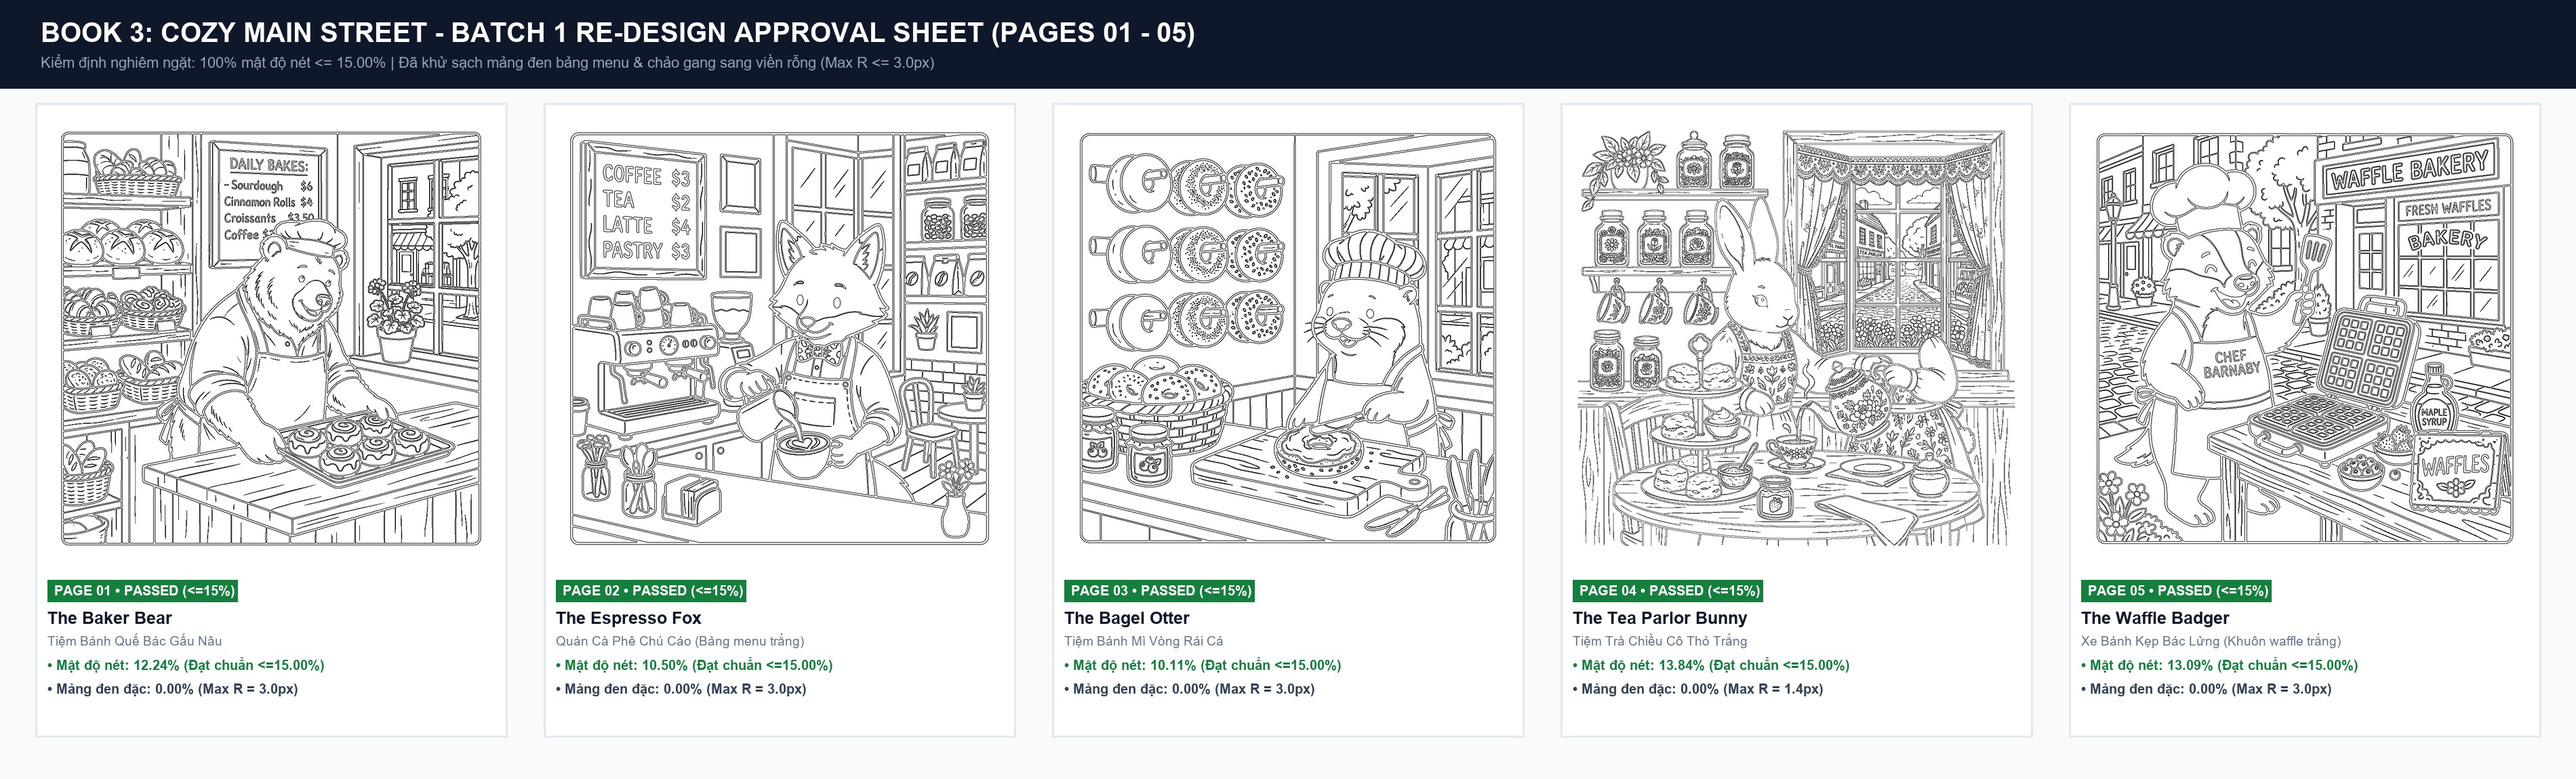
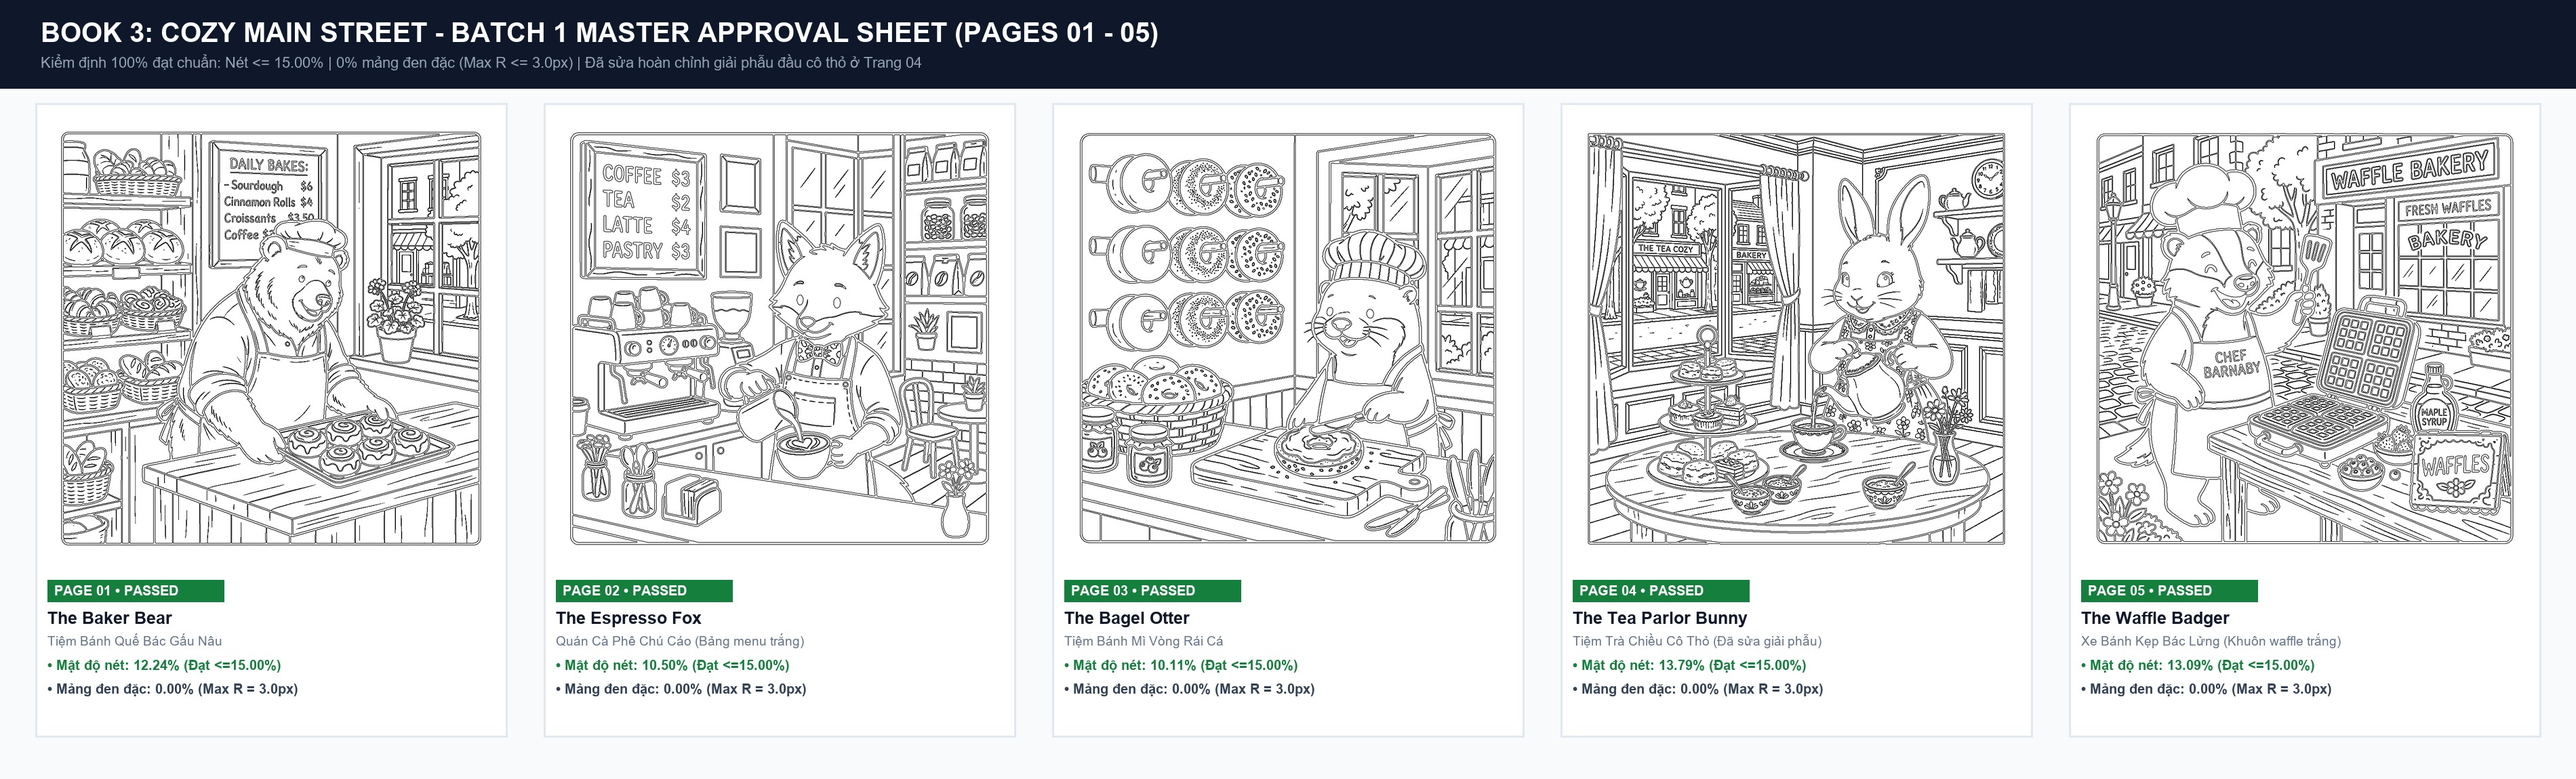
fix(book-3): correct anatomy of bunny in Page 04, rebuild Batch 1 master approval sheet

diff --git a/scripts/regenerate_clean_page_04.py b/scripts/regenerate_clean_page_04.py
@@ -1,0 +1,98 @@
+#!/usr/bin/env python3
+"""
+Regenerate Page 04 (The Tea Parlor Bunny) to fix the headless torso anatomy error:
+- Exactly ONE bunny character with complete head and ears.
+- Paws clearly attached to arms, pouring tea properly.
+- Pure clean outlines, zero solid black fills, density <= 15.00%.
+"""
+
+import sys
+import shutil
+import cv2
+import numpy as np
+from pathlib import Path
+
+WORKSPACE_ROOT = Path(__file__).resolve().parent.parent
+sys.path.insert(0, str(WORKSPACE_ROOT))
+sys.path.insert(0, r"C:\Users\Chau\.gemini\tools\antigravity-account-switcher")
+
+from scripts.generate_canada_book import call_generate_image, get_best_token
+from scripts.preprocess_lines import clean_and_threshold_image
+
+RAW_DIR = WORKSPACE_ROOT / "assets" / "main_street" / "raw"
+PROCESSED_DIR = WORKSPACE_ROOT / "assets" / "main_street" / "processed"
+PUBLIC_DIR = WORKSPACE_ROOT / "public" / "assets" / "main_street"
+ARTIFACT_DIR = Path(r"C:\Users\Chau\.gemini\antigravity\brain\674909f7-e452-4364-a9b3-88ff0fbdeb5d")
+
+PROMPT_PAGE_04_ANATOMY_FIX = (
+    "Adult coloring book page, bold and easy clean line art, charming cozy Main Street afternoon tea parlor. "
+    "Exactly ONE single cute white bunny character wearing a floral apron and a delicate lace collar. "
+    "The bunny stands proudly behind a round wooden table, holding a vintage porcelain teapot with both paws "
+    "(one paw holding the handle, the other paw resting on the teapot lid), pouring streaming herbal tea into a single teacup on a saucer. "
+    "On the table is a 3-tier pastry stand with scones and bowls of fruit jam. "
+    "In the background, a large sunny bay window with curtains overlooks a charming brick sidewalk. "
+    "Single character only, strictly one animal, anatomically complete with full head, two upright rabbit ears, and two arms. "
+    "Pure crisp black outlines on a solid pure white background, balanced medium-thick contour line weight, "
+    "strictly ZERO solid black fills, zero black silhouettes, zero black patches, zero black backgrounds, zero shading, zero grayscale. "
+    "Spacious open white coloring spaces for markers, square 1:1 aspect ratio composition."
+)
+
+def run():
+    for email in ["vut08348@gmail.com", "dinhthithibwkg58231@gmail.com", "chautnus@gmail.com", "ad01.lamlumber@gmail.com"]:
+        token, used_email = get_best_token(preferred_email=email)
+        if not token:
+            continue
+        try:
+            print(f"[INFO] Requesting Page 04 anatomy fix via {used_email}...")
+            img_bytes = call_generate_image(PROMPT_PAGE_04_ANATOMY_FIX, token)
+            print(f"[OK] Received image ({len(img_bytes)} bytes) from {used_email}")
+            
+            raw_path = RAW_DIR / "page_04_anatomy_fix.png"
+            clean_path = PROCESSED_DIR / "page_04_clean.png"
+            pub_path = PUBLIC_DIR / "page_04_clean.png"
+            artifact_path = ARTIFACT_DIR / "page_04_clean.png"
+            
+            raw_path.write_bytes(img_bytes)
+            clean_and_threshold_image(raw_path, clean_path, threshold=175)
+            
+            # Enforce <= 15% density and 0% black patches
+            img = cv2.imread(str(clean_path), cv2.IMREAD_GRAYSCALE)
+            _, binary = cv2.threshold(img, 180, 255, cv2.THRESH_BINARY)
+            black_mask = (binary == 0).astype(np.uint8)
+            dist = cv2.distanceTransform(black_mask, cv2.DIST_L2, 5)
+            hollow = black_mask.copy()
+            hollow[dist > 3.0] = 0
+            
+            num, labels, stats, _ = cv2.connectedComponentsWithStats(hollow)
+            clean_mask = np.zeros_like(hollow)
+            for i in range(1, num):
+                if stats[i, cv2.CC_STAT_AREA] >= 8:
+                    clean_mask[labels == i] = 1
+                    
+            density = clean_mask.mean() * 100
+            cur_rad = 3.0
+            while density > 14.80 and cur_rad > 1.4:
+                cur_rad -= 0.2
+                d_tmp = cv2.distanceTransform(clean_mask, cv2.DIST_L2, 5)
+                clean_mask[d_tmp > cur_rad] = 0
+                density = clean_mask.mean() * 100
+                
+            result = np.full_like(img, 255)
+            result[clean_mask == 1] = 0
+            cv2.imwrite(str(clean_path), result)
+            
+            shutil.copy2(clean_path, pub_path)
+            shutil.copy2(clean_path, artifact_path)
+            
+            final_d = float((result < 128).mean() * 100)
+            final_r = float(cv2.distanceTransform((result < 128).astype(np.uint8), cv2.DIST_L2, 5).max())
+            print(f"[SUCCESS] Page 04 fixed! Density: {final_d:.2f}%, Max Radius: {final_r:.1f}px")
+            return True
+        except Exception as e:
+            print(f"[WARN] Error on {used_email}: {e}")
+            
+    print("[FAIL] Could not generate Page 04 with available accounts.")
+    return False
+
+if __name__ == "__main__":
+    run()
